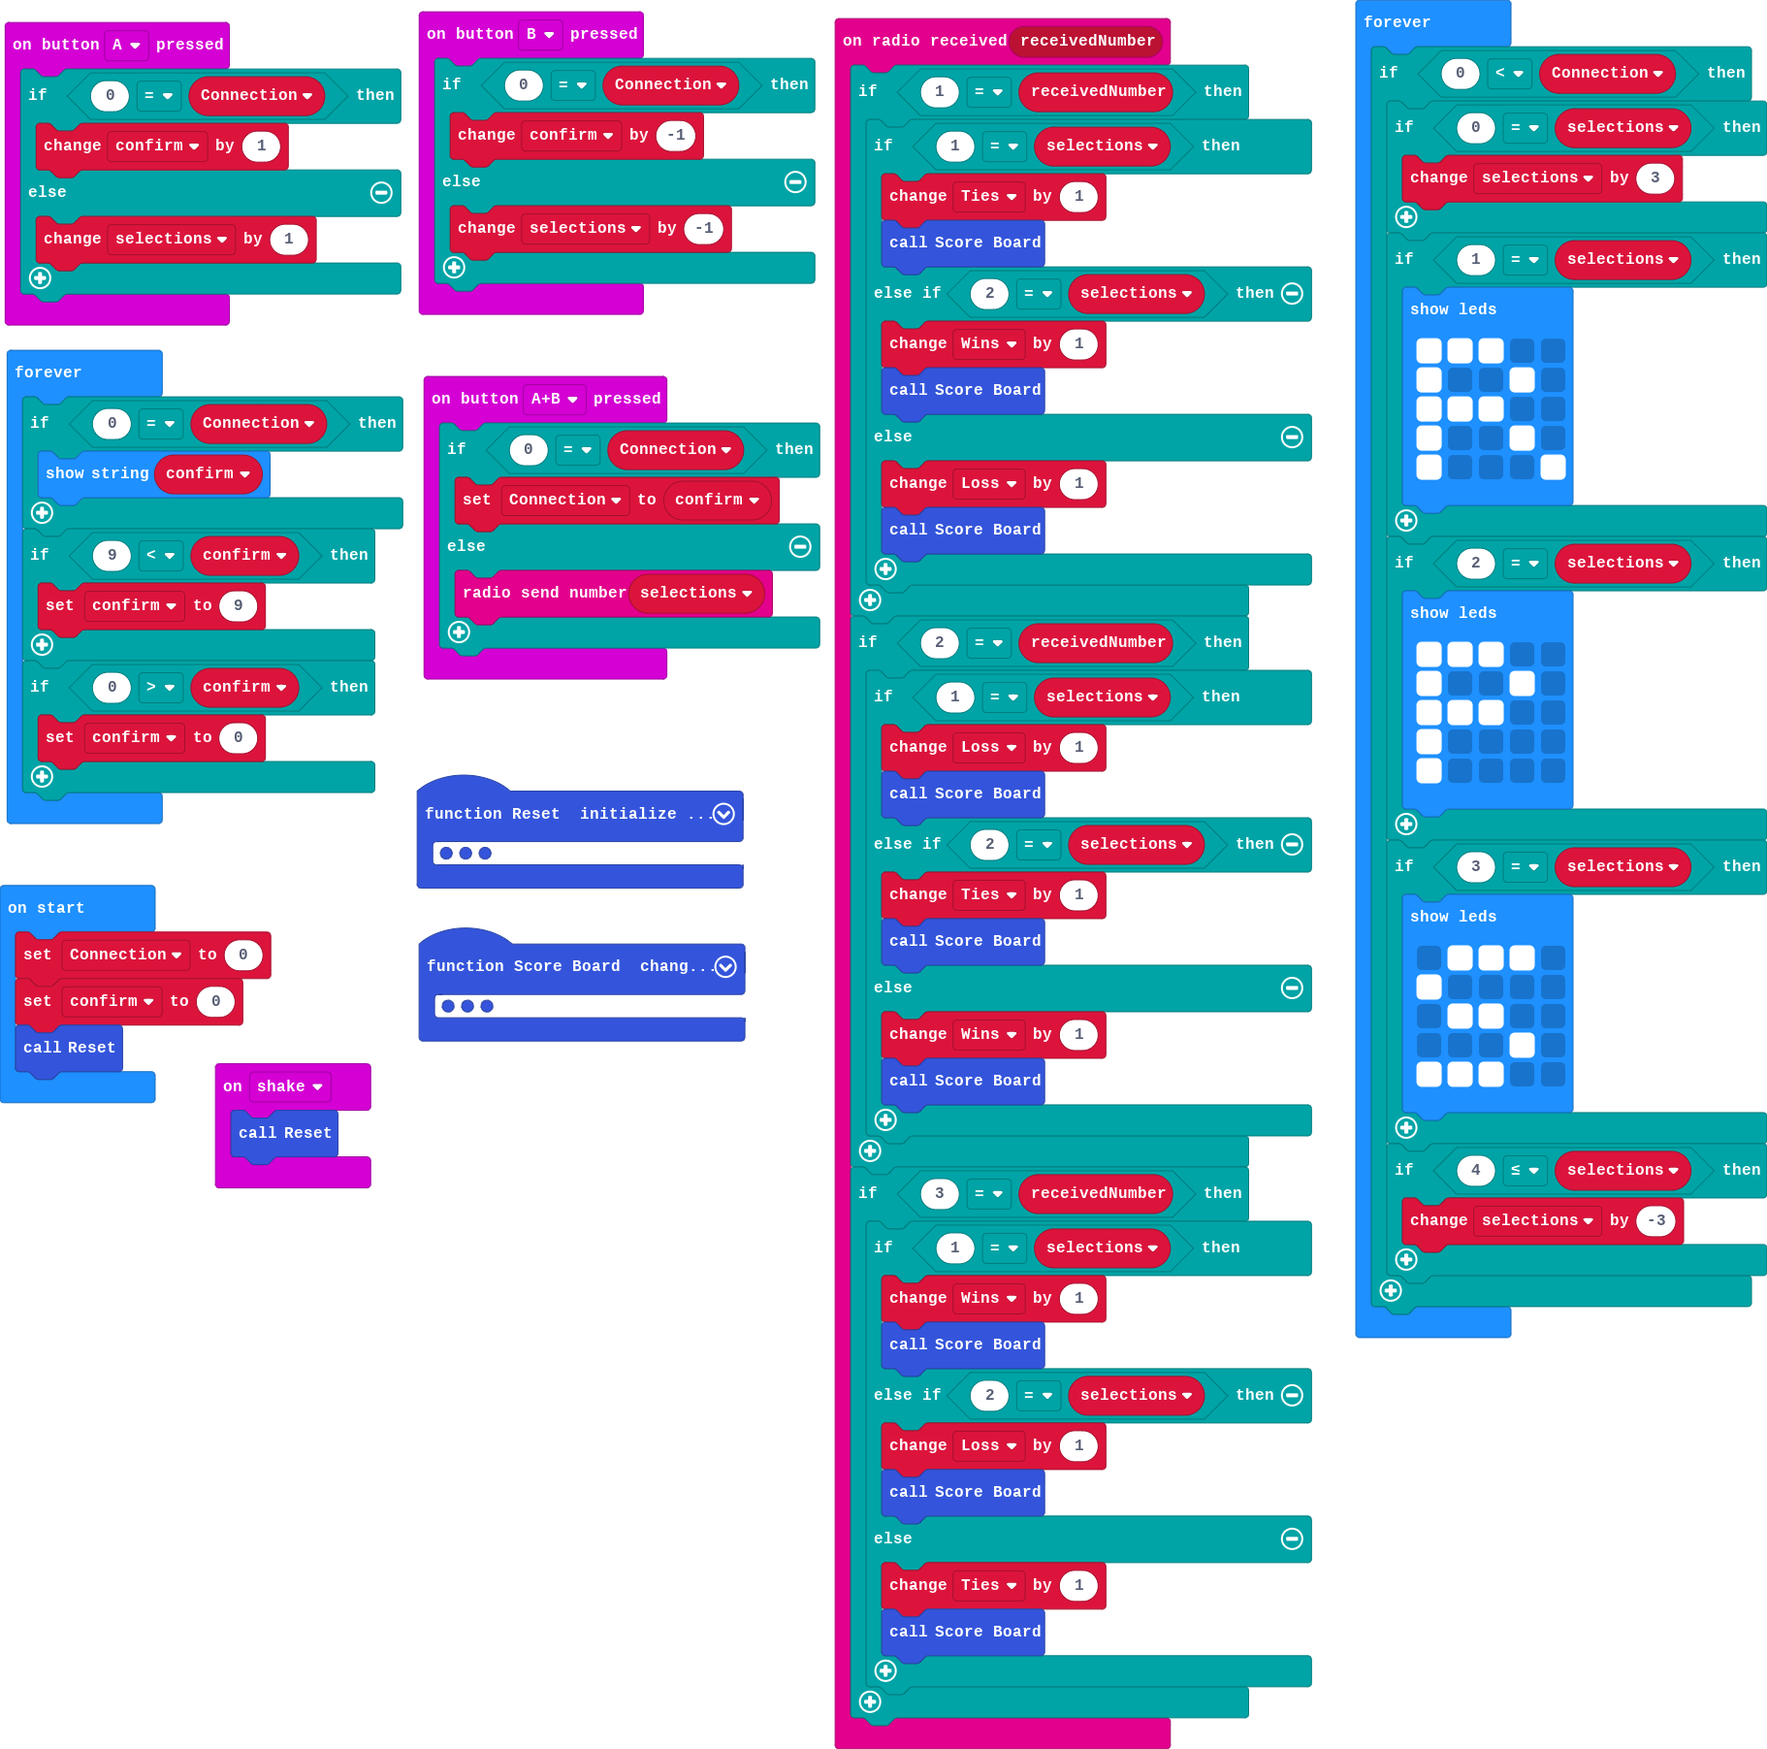
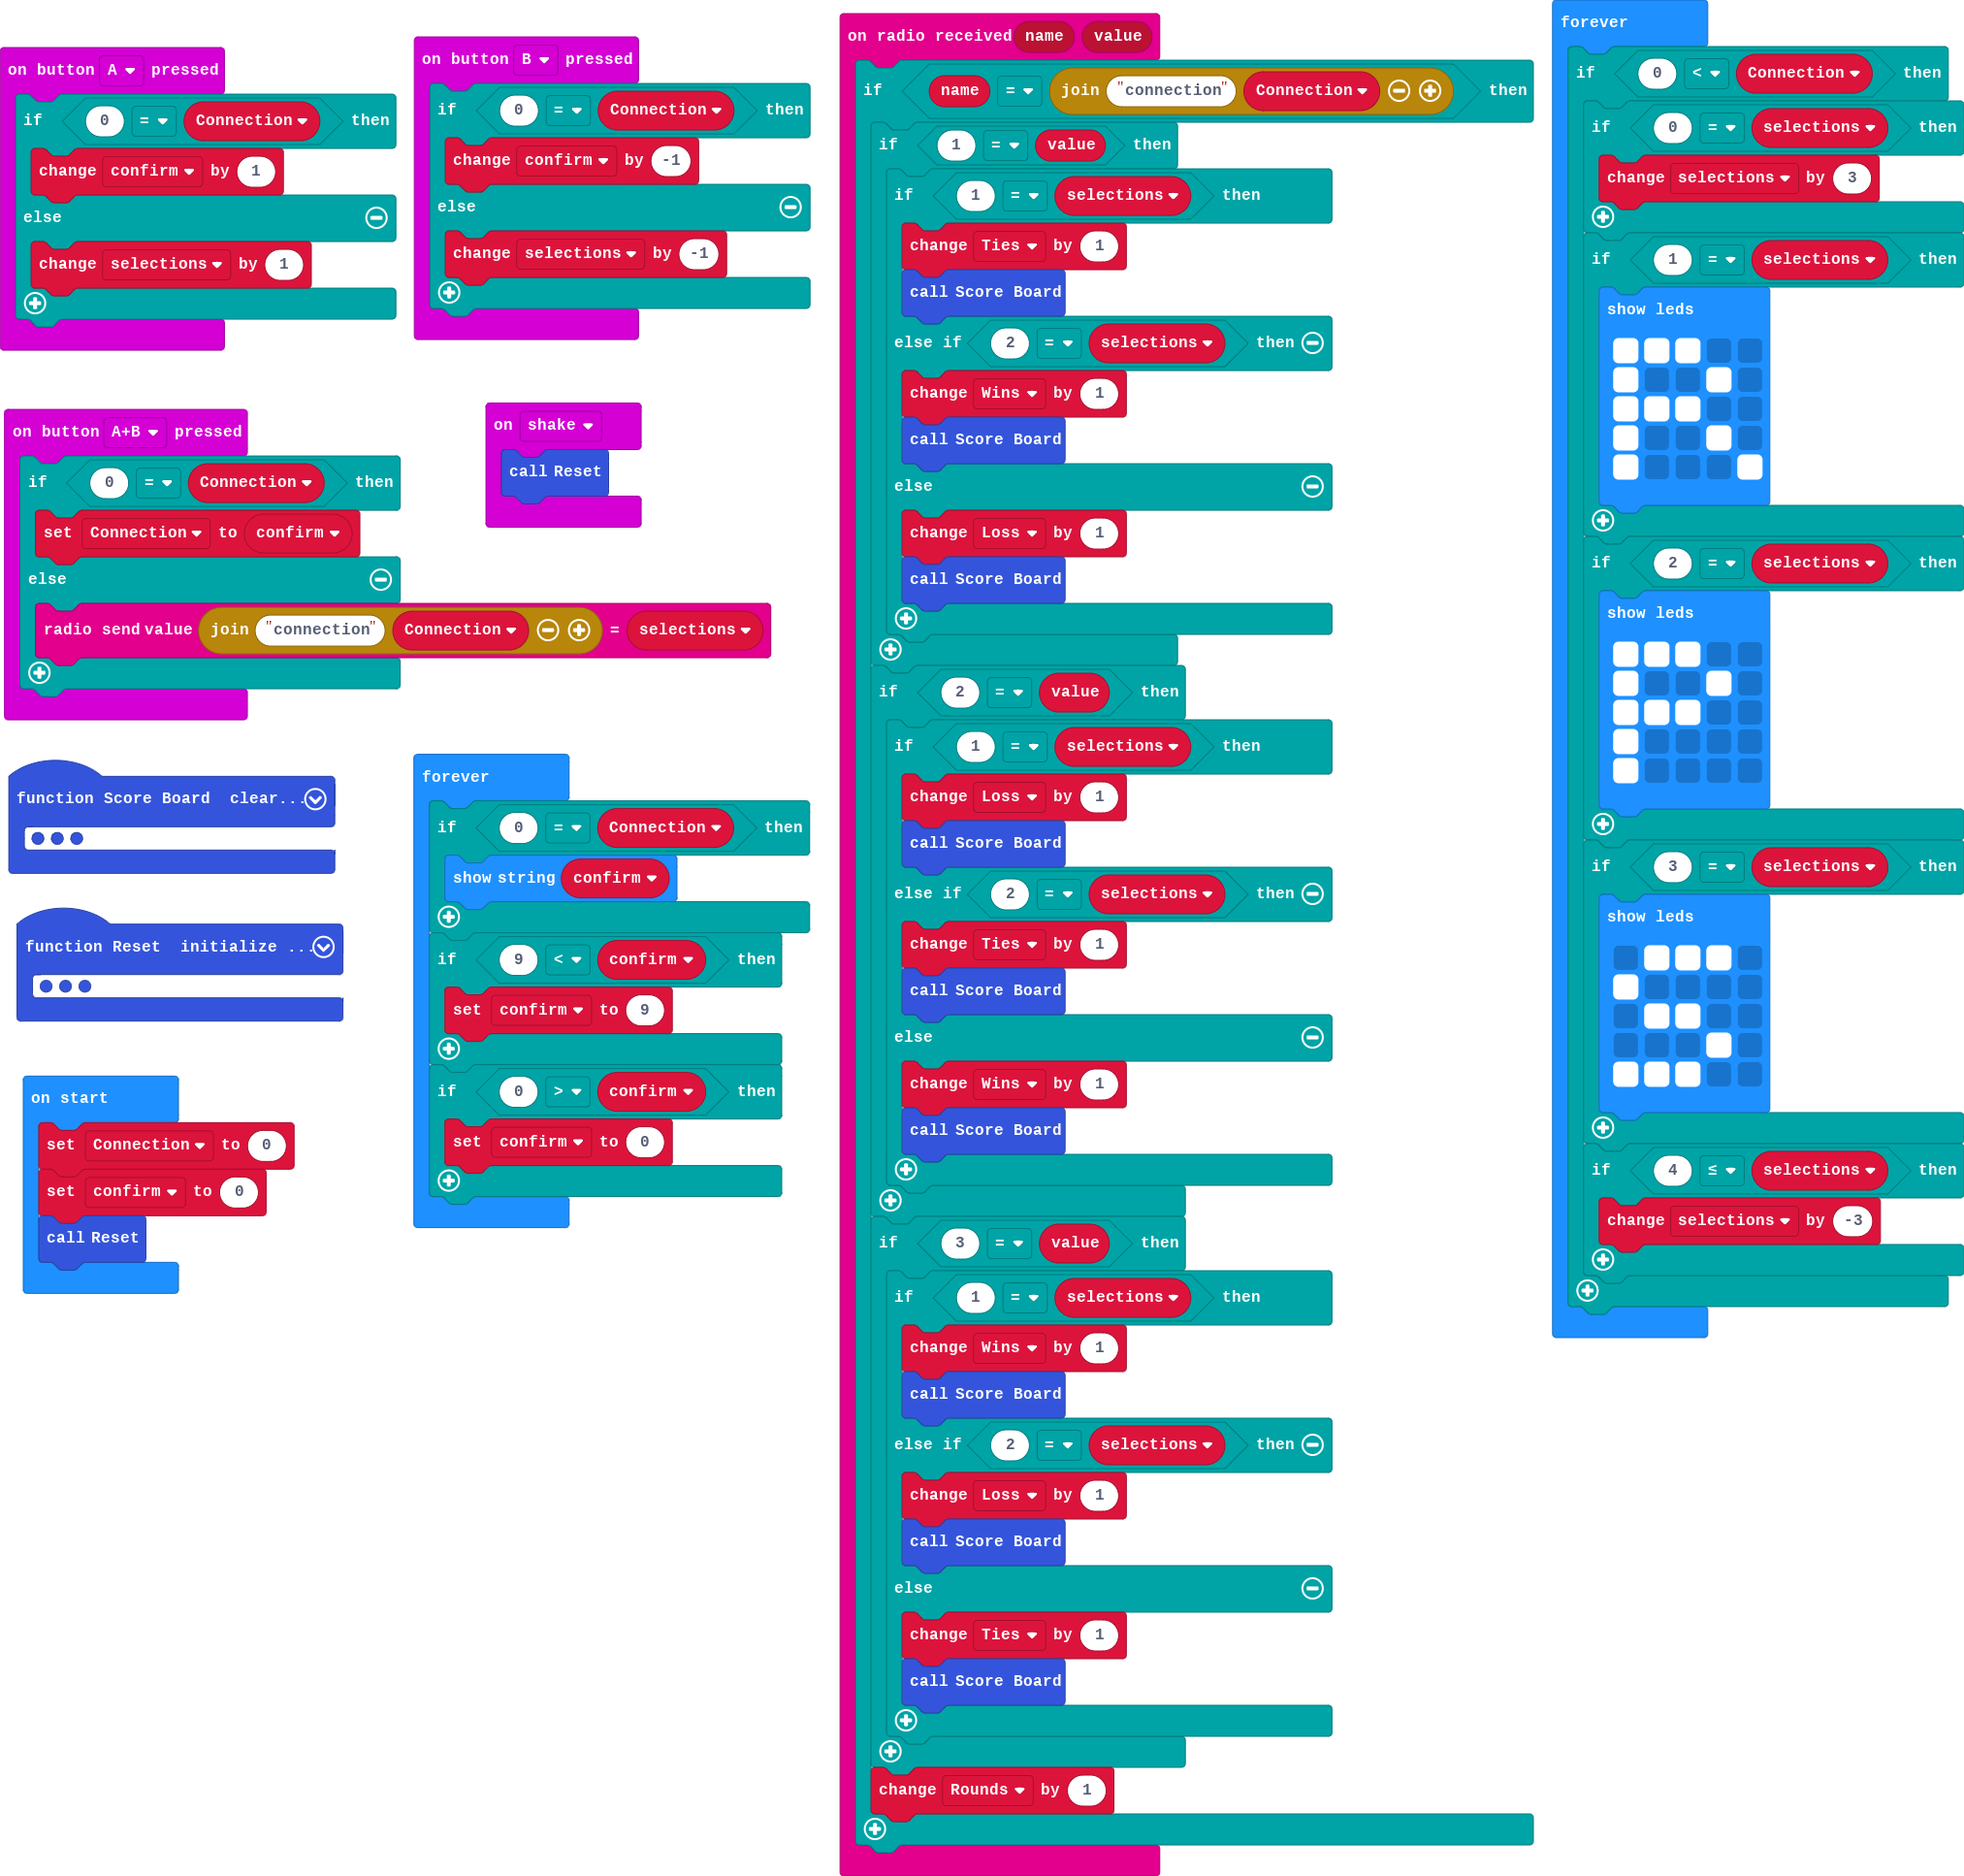
Update main.blocks, main.ts

diff --git a/main.ts b/main.ts
@@ -1,41 +1,3 @@
-radio.onReceivedNumber(function (receivedNumber) {
-    if (1 == receivedNumber) {
-        if (1 == selections) {
-            Ties += 1
-            Score_Board()
-        } else if (2 == selections) {
-            Wins += 1
-            Score_Board()
-        } else {
-            Loss += 1
-            Score_Board()
-        }
-    }
-    if (2 == receivedNumber) {
-        if (1 == selections) {
-            Loss += 1
-            Score_Board()
-        } else if (2 == selections) {
-            Ties += 1
-            Score_Board()
-        } else {
-            Wins += 1
-            Score_Board()
-        }
-    }
-    if (3 == receivedNumber) {
-        if (1 == selections) {
-            Wins += 1
-            Score_Board()
-        } else if (2 == selections) {
-            Loss += 1
-            Score_Board()
-        } else {
-            Ties += 1
-            Score_Board()
-        }
-    }
-})
 input.onButtonPressed(Button.A, function () {
     if (0 == Connection) {
         confirm += 1
@@ -44,7 +6,6 @@ input.onButtonPressed(Button.A, function () {
     }
 })
 function Score_Board () {
-    Rounds += 1
     OLED.clear()
     OLED.writeStringNewLine("P1 Points" + Wins)
     OLED.newLine()
@@ -58,7 +19,7 @@ input.onButtonPressed(Button.AB, function () {
     if (0 == Connection) {
         Connection = confirm
     } else {
-        radio.sendNumber(selections)
+        radio.sendValue("connection" + Connection, selections)
     }
 })
 input.onButtonPressed(Button.B, function () {
@@ -71,6 +32,47 @@ input.onButtonPressed(Button.B, function () {
 input.onGesture(Gesture.Shake, function () {
     Reset()
 })
+radio.onReceivedValue(function (name, value) {
+    if (name == "connection" + Connection) {
+        if (1 == value) {
+            if (1 == selections) {
+                Ties += 1
+                Score_Board()
+            } else if (2 == selections) {
+                Wins += 1
+                Score_Board()
+            } else {
+                Loss += 1
+                Score_Board()
+            }
+        }
+        if (2 == value) {
+            if (1 == selections) {
+                Loss += 1
+                Score_Board()
+            } else if (2 == selections) {
+                Ties += 1
+                Score_Board()
+            } else {
+                Wins += 1
+                Score_Board()
+            }
+        }
+        if (3 == value) {
+            if (1 == selections) {
+                Wins += 1
+                Score_Board()
+            } else if (2 == selections) {
+                Loss += 1
+                Score_Board()
+            } else {
+                Ties += 1
+                Score_Board()
+            }
+        }
+        Rounds += 1
+    }
+})
 function Reset () {
     OLED.init(128, 64)
     Wins = 0
@@ -81,9 +83,9 @@ function Reset () {
     Score_Board()
 }
 let Rounds = 0
+let Ties = 0
 let Loss = 0
 let Wins = 0
-let Ties = 0
 let selections = 0
 let confirm = 0
 let Connection = 0
